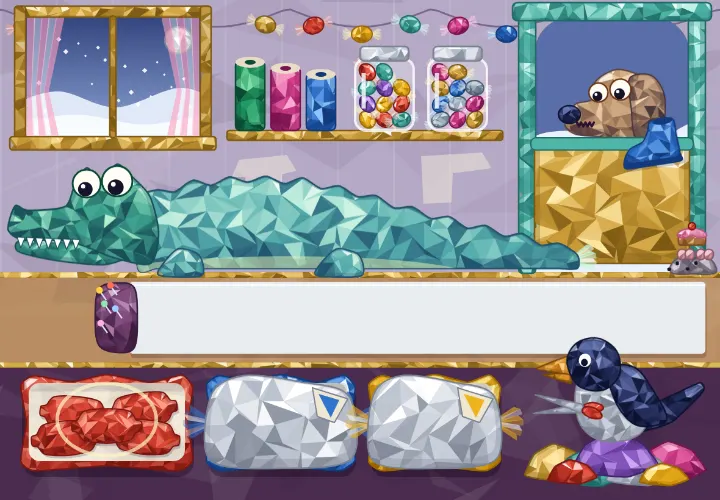
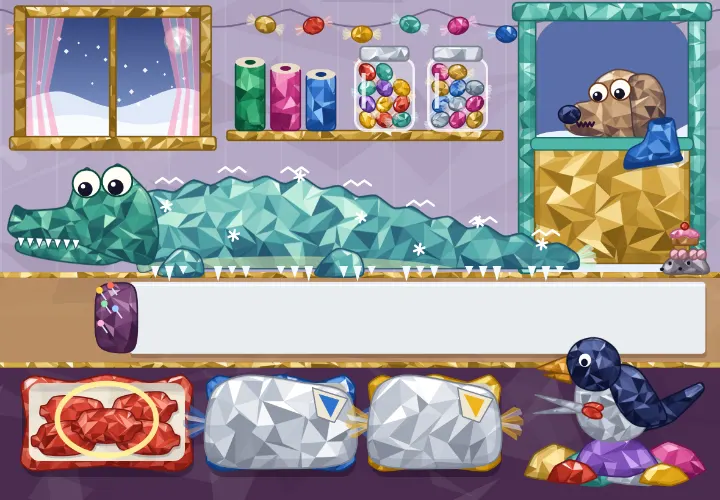
A Jumper for the Crocodile: the log and the cover
Claude-Session: https://claude.ai/code/session_01KFxejfQssANPxHr9uh9yKP

diff --git a/games/crocodile-jumper/REFINEMENT.md b/games/crocodile-jumper/REFINEMENT.md
@@ -3,7 +3,7 @@
 
 ## Status
 
-- Stage: game.
+- Stage: gates.
 - Look in use: Foil sweet wrappers (reserved first); String and pins is the backup.
[1 lines of base64/hex data omitted]
 - Open: nothing.
@@ -12,18 +12,23 @@ The stages in order are sheet, toy, game, gates. Keep this block current: the st
 
 ### Template notes
 
-No entry yet. One entry a file copied from the template, written for the lead and for the games that come after: used as copied, or what was changed and why, and what is wrong or missing that any game would need. Mark a fault or a gap **for the template**. A frozen file is never changed here: a fault in one is a request to the lead.
+- Used as copied: the frozen files, `audio.ts`, `input.ts`, `stage.ts`, `guidance.ts`, `overlay.ts`, `state.ts`.
+- `config.ts`: `TAP_PRESSES` is 1, because a second tap on the door would end the coming of the next one. The constant that read the band went with it.
+- `scene.ts` and `rng.ts` were removed: the scenes live in `play.ts`, and nothing here is drawn by chance.
 
 ### For the owner to decide
 
-Nothing yet. One line for each thing only the owner can settle: the look and the toy at the toy checkpoint, a default the game would like changed, and anything the guide does not rule on.
+- Whether a child sees the loop. Nobody but model readers has played it.
+- The sound has not been heard by anyone; it was checked as notes.
 
 ## Pass log
 
-No pass yet. One row per pass: what was looked at, the critique written as the child, the one themed fix set, what was reverted, the measured frame rate, and what is still weak.
-
 | Pass | Looked at | Critique | Fix set | Frame rate | Still weak |
 | --- | --- | --- | --- | --- | --- |
+| 1 | Rest, all five customers | Chilled skin came out black; the scissors read as a numeral; the customer at the door showed below the half door | Colours mixed as hex, scissors redrawn, door clipped | not measured | |
+| 2 | The loop, after the owner said that a four-year-old does not see the loops of the newest games | A row was laid, then a magpie made the jumper, then it was worn: three places to look at | The row is the jumper: each piece laid leaps up as a ring at once; a short row is a bare blue tail. Sheet rewritten and checked again | not measured | |
+| 3 | Cold playtest proxy, screenshots only, no source read | Understood laying and closing up. Not clear: that it is finished and what comes next; that bare means cold; what a full strip does. Snail's rings hidden by its house | Finish: hop, pink cheeks, a knock and a ring round the one at the door. Cold: shakes, snowflakes, icicles, breath from the first frame. Full strip: the piece bounces home. House raised. A drop across an edge goes beside it | at most 79 draws a frame, counted over 85,056 frames | the mouse's card is easy to miss |
+| 4 | Independent code review, 27 findings, most reproduced by running the rules | A stroke and then a press elsewhere pulled the whole jumper off; a finger bounce sent the customer away; a double tap ended the arrival; a showing was marked and never shown; a wobbly tap laid nothing; heaps burst when shoved; customers shared one gait; a guest let go wrongly vanished to the door | Every fault fixed, six with tests that play them | 59.1 fps, see below | |
 
 ## For the pull request
 
@@ -31,16 +36,30 @@ Written as the game is built and kept at the end of this file: the pull request 
 
 ### How the game meets the quality bar
 
-Nothing yet. One entry for each line of the quality bar, saying how the game meets it so far. Each frame rate comes with the engine, the throttle, the pixel ratio and the build it was measured on, and with whether a physical iPad was measured.
+- Alive at idle: breathing, blinking, shivering, snow, whoever was dressed last outside the window, eyes that go to what is wanted.
+- Motion and sound on every touch: every place answers when the finger lands, in a voice of its own.
+- Weight, squash, follow-through: pieces hop and skid by kind, shove one another, rings swell and settle, fifteen different ways to take a piece.
+- Silhouettes and tappables: five animals in five metals, three pieces in three colours; targets about 100 units, and taps alone can do everything that matters.
+- Wordless: no word, letter, numeral or sign; passes `wordless:check`. No speech and no microphone.
+- Idle guidance: a glow, then a ghost hand that lays one piece and shows its ring. It never shows the whole answer.
+- 60 fps: 59.1 fps over 27 s of the shared probe, production build, headless Chromium with software rendering (no GPU), no throttle, tiers on automatic, ending at tier 1 (pixel ratio 1.5), worst second 46; Half a Horse on the same machine the same hour gave 57.4, ending at tier 2. At tier 0 with a sixfold throttle the same software renderer gives 6.3 (Half a Horse 4.2), which says nothing about a tablet. At most 79 draws a frame, counted; no blur, shadow or filter; one full composite. **WebKit and a physical iPad were not measured.**
+- Nothing passes through anything: a 2D game, so there is no intersection audit; the row is held by model tests (shoving, closing up, heaps, the strip's ends).
+- Found as left: the position is saved before the arrival plays; a piece in the hand is saved where it came from; nothing replays on load.
+- Assets: all drawn in code.
 
 ### The learning claim
 
-Nothing yet. The claim as the sheet has it, with each record's standing and its check state read again on the day of the pull request, in the pack's Summary or the game's own words only. A game with no learning goal says so.
+A Jumper for the Crocodile is designed from two California preschool and transitional kindergarten learning foundations, published by a state department, in part (measuring length by laying real objects one after another, a later-age foundation, without the telling of a number; and comparing two things by length, by looking), and from two goals of guidance by the Dutch curriculum institute for fase 1, in part (measuring with informal measures, and thinking about length in situations that make it matter, both by doing and never by telling); all four records are confirmed.
 
 ### Defaults taken for the owner
 
-Nothing yet. Each default the game took in the owner's place, from the guide or from its own sheet.
+- The look is the first reserved one.
+- The finished jumper needs only a covered tail: holes and bulges are funny and are never refused.
+- The next one comes only at the child's touch.
 
 ### What the next builder should know
 
-Nothing yet. What this build taught that the guide and the template do not say.
+- Put the consequence on the thing itself, at once. The first design had the same parts with one step between laying and wearing, and that step was what a small child would lose.
+- Measure a drag from where that drag began. A field that remembers the last landing is overwritten by the next finger while the first drag is still being ended.
+- Decide near or far by the farthest point of a drag, not by its end, or a piece carried out and brought home counts as a tap.
+- Notes put into the future outlive the scene they belong to. Say them when the scene gets there.
